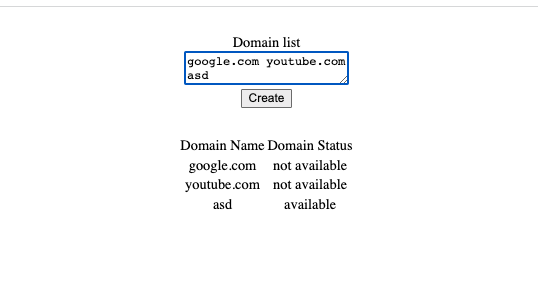
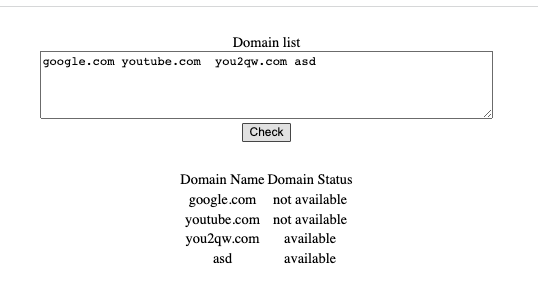
fixed btn name

diff --git a/public/js/app.js b/public/js/app.js
@@ -21147,7 +21147,7 @@ function render(_ctx, _cache, $props, $setup, $data, $options) {
     onClick: _cache[1] || (_cache[1] = function ($event) {
       return $options.getDomains();
     })
-  }, "Create")]), (0,vue__WEBPACK_IMPORTED_MODULE_0__.createElementVNode)("div", _hoisted_2, [(0,vue__WEBPACK_IMPORTED_MODULE_0__.createElementVNode)("table", null, [(0,vue__WEBPACK_IMPORTED_MODULE_0__.createElementVNode)("thead", null, [(0,vue__WEBPACK_IMPORTED_MODULE_0__.createElementVNode)("tr", null, [(0,vue__WEBPACK_IMPORTED_MODULE_0__.createElementVNode)("td", null, (0,vue__WEBPACK_IMPORTED_MODULE_0__.toDisplayString)($data.domainName), 1 /* TEXT */), (0,vue__WEBPACK_IMPORTED_MODULE_0__.createElementVNode)("td", null, (0,vue__WEBPACK_IMPORTED_MODULE_0__.toDisplayString)($data.domainStatus), 1 /* TEXT */)])]), ((0,vue__WEBPACK_IMPORTED_MODULE_0__.openBlock)(true), (0,vue__WEBPACK_IMPORTED_MODULE_0__.createElementBlock)(vue__WEBPACK_IMPORTED_MODULE_0__.Fragment, null, (0,vue__WEBPACK_IMPORTED_MODULE_0__.renderList)($data.list, function (item) {
+  }, "Check")]), (0,vue__WEBPACK_IMPORTED_MODULE_0__.createElementVNode)("div", _hoisted_2, [(0,vue__WEBPACK_IMPORTED_MODULE_0__.createElementVNode)("table", null, [(0,vue__WEBPACK_IMPORTED_MODULE_0__.createElementVNode)("thead", null, [(0,vue__WEBPACK_IMPORTED_MODULE_0__.createElementVNode)("tr", null, [(0,vue__WEBPACK_IMPORTED_MODULE_0__.createElementVNode)("td", null, (0,vue__WEBPACK_IMPORTED_MODULE_0__.toDisplayString)($data.domainName), 1 /* TEXT */), (0,vue__WEBPACK_IMPORTED_MODULE_0__.createElementVNode)("td", null, (0,vue__WEBPACK_IMPORTED_MODULE_0__.toDisplayString)($data.domainStatus), 1 /* TEXT */)])]), ((0,vue__WEBPACK_IMPORTED_MODULE_0__.openBlock)(true), (0,vue__WEBPACK_IMPORTED_MODULE_0__.createElementBlock)(vue__WEBPACK_IMPORTED_MODULE_0__.Fragment, null, (0,vue__WEBPACK_IMPORTED_MODULE_0__.renderList)($data.list, function (item) {
     return (0,vue__WEBPACK_IMPORTED_MODULE_0__.openBlock)(), (0,vue__WEBPACK_IMPORTED_MODULE_0__.createElementBlock)("tr", null, [(0,vue__WEBPACK_IMPORTED_MODULE_0__.createElementVNode)("td", null, (0,vue__WEBPACK_IMPORTED_MODULE_0__.toDisplayString)(item.domain), 1 /* TEXT */), (0,vue__WEBPACK_IMPORTED_MODULE_0__.createElementVNode)("td", null, (0,vue__WEBPACK_IMPORTED_MODULE_0__.toDisplayString)(item.status), 1 /* TEXT */)]);
   }), 256 /* UNKEYED_FRAGMENT */))])])]);
 }

diff --git a/resources/js/components/DomainComponent.vue b/resources/js/components/DomainComponent.vue
@@ -39,7 +39,7 @@ export default {
                 ></textarea></div>
             </div>
 
-            <button type="submit" @click="getDomains()">Create</button>
+            <button type="submit" @click="getDomains()">Check</button>
         </div>
         <div class="domain-list">
             <table >
